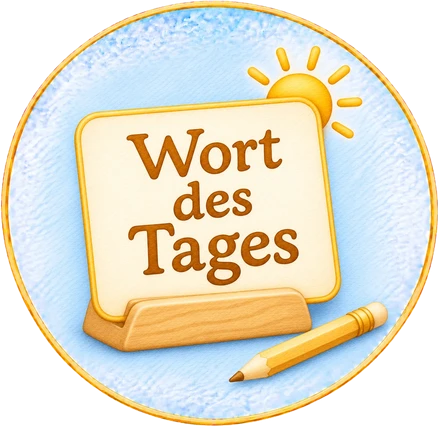
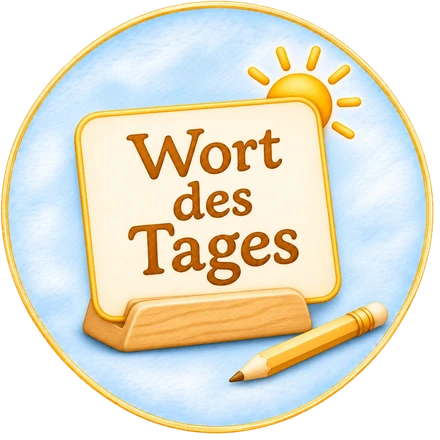
Neues Bild für «Wort des Tages»
Claude-Session: https://claude.ai/code/session_016s2NAEmtV5RttX7vfFu7FQ

diff --git a/index.html b/index.html
@@ -128,7 +128,7 @@
 
       <div class="karten">
         <a class="karte gruen klickbar" href="wort-des-tages/" aria-label="Wort des Tages spielen">
-          <span class="bild-rund mit-bild" aria-hidden="true"><img src="wort-des-tages-bild.webp" alt="" width="220" height="220" loading="lazy"></span>
+          <span class="bild-rund mit-bild" aria-hidden="true"><img src="wort-des-tages-bild.webp?v=2" alt="" width="220" height="220" loading="lazy"></span>
           <h3>Wort des Tages</h3>
           <p>Finde das geheime Wort mit 5 Buchstaben in 6 Versuchen. Jeden Tag gibt es ein neues Wort.</p>
         </a>
